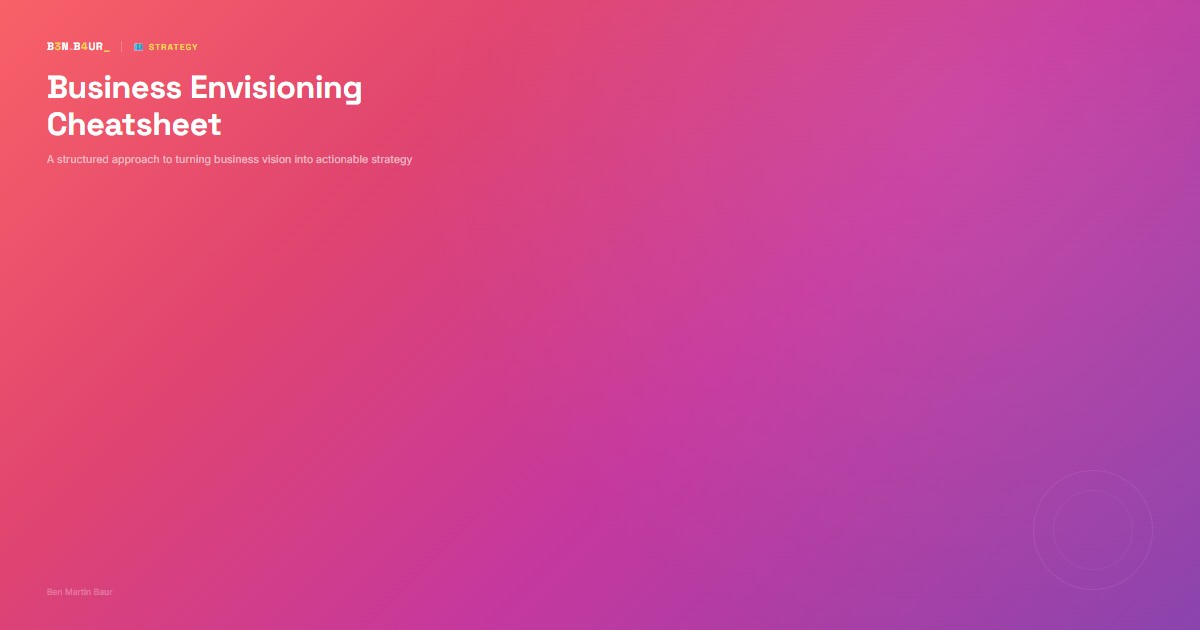
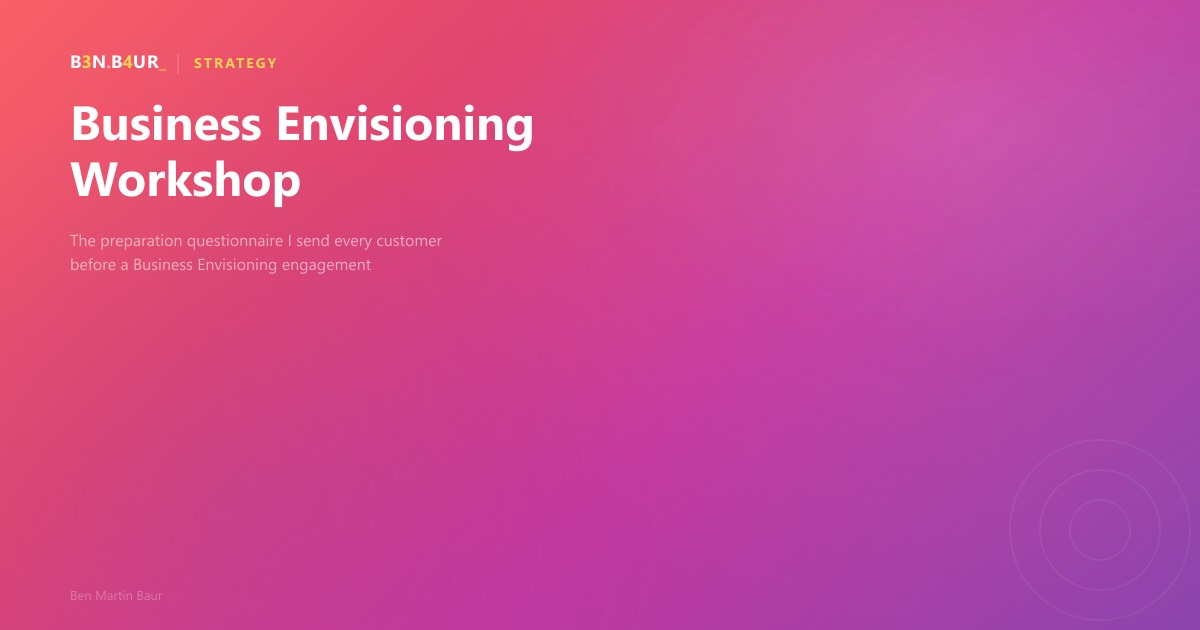
updated projects

Changed region(s): [[0.0308, 0.0603, 0.4625, 0.3317], [0.0617, 0.3619, 0.37, 0.4524], [0.0308, 0.9349, 0.1233, 0.9651]]

diff --git a/content/posts/2026-04-01-business-envisioning-cheatsheet/index.md b/content/posts/2026-04-01-business-envisioning-cheatsheet/index.md
@@ -1,116 +1,182 @@
+---
+title: "Business Envisioning Workshop — The Preparation Questionnaire I Send Every Customer"
+description: "A reusable pre-workshop questionnaire that turns a room full of opinions into a structured conversation about what actually matters."
+date: 2026-04-01
+image: featured.jpg
+tags:
+  - AI
+  - Strategy
+  - Framework
+  - Consulting
+categories:
+  - strategy
+readingTime: 6
+---
 
-Business Envisioning Workshop – Preparation Questionnaire
-Audience: IT Managers & Service Owners – Edeka Einzelhandel
-Context: Microsoft Innovation Hub – Business Envisioning
-Purpose: Ensure we use workshop time to focus on the right problems, shared priorities, and clear decisions.
+## Why This Exists
 
+Here's a pattern I see in almost every customer engagement: the workshop is booked, the room is full, the whiteboard is ready — and the first 90 minutes get burned on context-setting because nobody aligned on the problem beforehand.
 
-1⃣ Current State – Reality Check
-1.1 What’s working well today?
+Business Envisioning workshops are one of the most powerful tools in the [Microsoft Innovation Hub](https://learn.microsoft.com/en-us/microsoft-cloud/dev/copilot/isv/business-envisioning) toolkit. They bring IT leaders, service owners, and business stakeholders together to identify use cases, score them against Business‑Experience‑Technology (BXT) dimensions, and leave with a prioritised backlog. But they only work if people arrive prepared.
 
-What aspects of the Edeka Einzelhandel IT infrastructure work reliably today?
-Where do you see clear business value or positive user feedback?
-Which platforms, services, or processes are enabling speed, stability, or efficiency?
-What would you explicitly not want to lose or replace?
-1.2 Current blockers & friction
+So I started sending a preparation questionnaire to every customer before the workshop. Not a survey — a structured thinking exercise. It forces participants to reflect on what's working, what failed, where the opportunity is, and who owns the outcomes. By the time we're in the room, we're not discovering the landscape — we're already navigating it.
 
-Where do you experience the biggest blockers or bottlenecks?
-What slows delivery, innovation, or decision‑making?
-Where do dependencies, silos, or handovers create friction?
-What repeatedly frustrates teams or business stakeholders?
+Below is the questionnaire I use. Adapt it to your context. The format doesn't matter — bullet points are fine. What matters is that people think before they talk.
 
+---
 
-2⃣ Learning from the Past – What Didn’t Work (and Why)
-2.1 Projects that failed or stalled
+## The Questionnaire
 
-Which initiatives failed to deliver the expected value?
-At what stage did they break down? (idea, design, delivery, adoption)
-What were the main root causes?unclear ownership or sponsorship
-missing business alignment
-change resistance
-technical complexity
-governance, security, or compliance delays
+> **Audience:** IT Managers, Service Owners, and Business Stakeholders
+>
+> **Context:** Pre-workshop preparation for a Business Envisioning engagement
+>
+> **Purpose:** Ensure we use workshop time to focus on the right problems, shared priorities, and clear decisions.
 
+---
 
-Be honest – this is about learning, not blame.
+### 1⃣ Current State — Reality Check
 
+**1.1 What's working well today?**
 
-2.2 What success actually required
+- What aspects of your IT infrastructure work reliably today?
+- Where do you see clear business value or positive user feedback?
+- Which platforms, services, or processes are enabling speed, stability, or efficiency?
+- What would you explicitly *not* want to lose or replace?
 
-Which initiatives did work well?
-What made them successful?
-What conditions were present that are often missing?clear decision authority
-strong business sponsor
-simple scope
-empowered teams
-solid data foundations
+**1.2 Current blockers & friction**
 
+- Where do you experience the biggest blockers or bottlenecks?
+- What slows delivery, innovation, or decision‑making?
+- Where do dependencies, silos, or handovers create friction?
+- What repeatedly frustrates teams or business stakeholders?
 
-3⃣ Opportunity – Where to Focus Next
-3.1 Biggest opportunity areas
+---
 
-Where do you see the highest potential business impact in the next 12–24 months?
-Which processes, services, or capabilities:cost too much today?
-scale poorly?
-limit speed or quality?
-create operational or compliance risk?
-(Optional prompts: store operations, supply chain, data & analytics, employee productivity, customer experience, security & governance)
-3.2 If constraints disappeared…
+### 2⃣ Learning from the Past — What Didn't Work (and Why)
 
-If today’s constraints did not exist, what would you redesign first?
-What would “great” look like for IT at Edeka Einzelhandel?
-What should IT be known for in three years?
+**2.1 Projects that failed or stalled**
 
+- Which initiatives failed to deliver the expected value?
+- At what stage did they break down? (idea, design, delivery, adoption)
+- What were the main root causes?
+  - Unclear ownership or sponsorship
+  - Missing business alignment
+  - Change resistance
+  - Technical complexity
+  - Governance, security, or compliance delays
 
-4⃣ Vision – Your Perspective
+> *Be honest — this is about learning, not blame.*
 
-What is your personal vision for Edeka Einzelhandel IT?
-What should fundamentally change?
-What should intentionally stay the same?
+**2.2 What success actually required**
+
+- Which initiatives *did* work well?
+- What made them successful?
+- What conditions were present that are often missing?
+  - Clear decision authority
+  - Strong business sponsor
+  - Simple scope
+  - Empowered teams
+  - Solid data foundations
+
+---
+
+### 3⃣ Opportunity — Where to Focus Next
+
+**3.1 Biggest opportunity areas**
+
+- Where do you see the highest potential business impact in the next 12–24 months?
+- Which processes, services, or capabilities:
+  - Cost too much today?
+  - Scale poorly?
+  - Limit speed or quality?
+  - Create operational or compliance risk?
+
+*Optional prompts: operations, supply chain, data & analytics, employee productivity, customer experience, security & governance*
+
+**3.2 If constraints disappeared…**
+
+- If today's constraints did not exist, what would you redesign first?
+- What would "great" look like for your IT organisation?
+- What should IT be known for in three years?
+
+---
+
+### 4⃣ Vision — Your Perspective
+
+- What is your personal vision for your organisation's IT?
+- What should fundamentally change?
+- What should intentionally stay the same?
+
 Finish this sentence:
 
+> *"In three years, IT should enable the business by …"*
 
-“In three years, IT at Edeka Einzelhandel should enable the business by …”
+---
 
+### 5⃣ Candidate Use Case *(Optional but Highly Valuable)*
 
+Describe one business scenario you believe is worth exploring in the workshop:
 
+| Dimension | Your Input |
+|-----------|-----------|
+| **Problem or opportunity** | |
+| **How it is handled today** | |
+| **Who is impacted** (roles / teams) | |
+| **What success would look like** | |
+| **Why this matters now** | |
 
-5⃣ Candidate Use Case (Optional but Highly Valuable)
-Please describe one business scenario you believe is worth exploring in the workshop:
+---
 
-Problem or opportunity:
-How it is handled today:
-Who is impacted (roles / teams):
-What success would look like:
-Why this matters now:
+### 6⃣ Constraints & Dependencies
 
+- Are there non‑negotiable constraints we must consider?
+  - Security
+  - Compliance
+  - Data privacy
+  - Architecture standards
+- Are there critical dependencies on other teams, vendors, or partners?
 
-6⃣ Constraints & Dependencies
+---
 
-Are there non‑negotiable constraints we must consider?security
-compliance
-data privacy
-architecture standards
-Are there critical dependencies on other teams, vendors, or partners?
+### 7⃣ Decision & Ownership Readiness
 
+- Who needs to be involved for decisions to stick?
+- Who would own outcomes if we move forward?
+- Where do decisions typically get delayed today?
 
-7⃣ Decision & Ownership Readiness
+---
 
-Who needs to be involved for decisions to stick?
-Who would own outcomes if we move forward?
-Where do decisions typically get delayed today?
+## How the Input Gets Used
 
+Responses don't just disappear into a slide deck. Here's exactly what happens with them:
 
-✅ How Your Input Will Be Used
+1. **Theme extraction** — I look for shared patterns, blockers, and opportunities across all responses
+2. **Rose–Thorn–Bud analysis** — What's working (roses), what's painful (thorns), what has potential (buds)
+3. **BXT scoring** — Use cases get evaluated on Business viability, Experience impact, and Technology feasibility
+4. **Prioritised backlog** — The workshop ends with a ranked list of use cases and clear next steps
 
-Identify shared themes, blockers, and opportunities
-Feed into Rose–Thorn–Bud and BXT (Business, Experience, Technology) analysis
-Shape use‑case prioritization
-Ensure the workshop ends with clear decisions and actionable next steps
+The questionnaire turns a 4-hour workshop into a 4-hour *decision-making session*. That's the difference.
 
+---
 
-Guidance
+## Tips for Respondents
 
-Bullet points are sufficient
-Be specific and concrete
-Focus on problems and outcomes – not solutions (yet)
+- **Bullet points are sufficient** — don't write essays
+- **Be specific and concrete** — "our approval process takes 3 weeks" beats "things are slow"
+- **Focus on problems and outcomes** — not solutions (yet)
+- **Be honest about failures** — the best workshops happen when people stop protecting past decisions
+
+---
+
+## Why I Keep Using This
+
+I've run this questionnaire with enterprise customers across industries — retail, manufacturing, financial services, public sector. The questions barely change. The answers always surprise me.
+
+The most valuable thing it does isn't information gathering — it's **alignment**. When five IT leaders independently write down what they think the biggest opportunity is, and three of them say the same thing, you walk into the workshop with momentum instead of debate.
+
+And when they *don't* agree? That's even more valuable. Now you know where the real conversation needs to happen.
+
+---
+
+> *"Focus on problems and outcomes — not solutions (yet)."*
